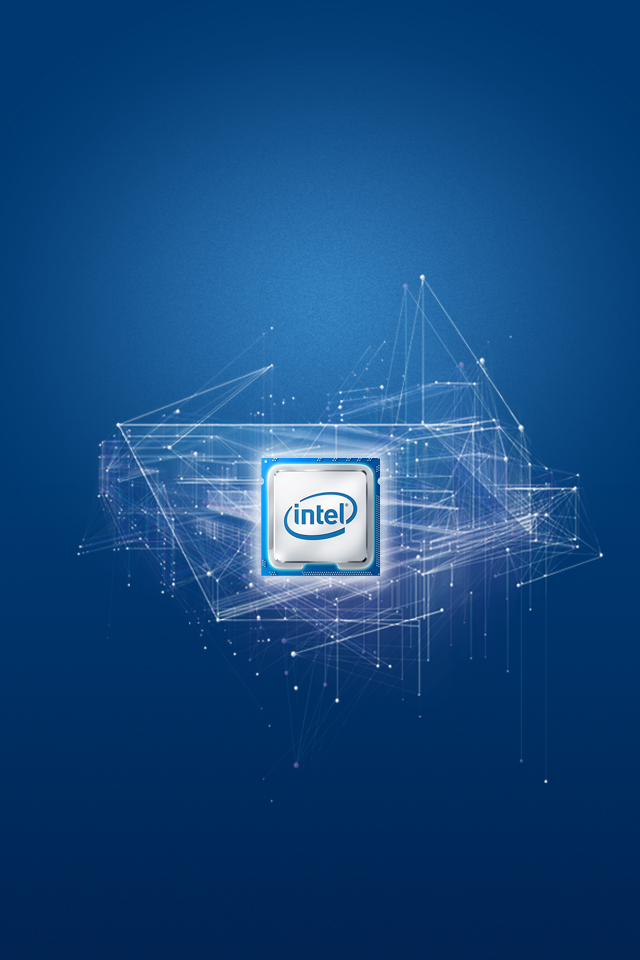
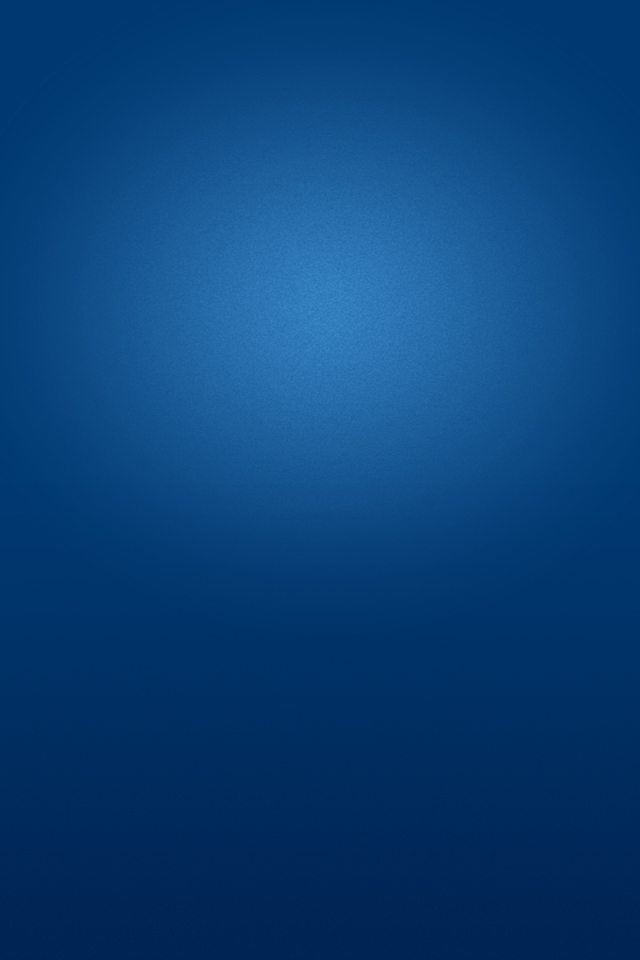
index flash

Changed region(s): [[0.1562, 0.2812, 0.9062, 0.7188], [0.375, 0.375, 0.4375, 0.4062]]

diff --git a/style/howe.css b/style/howe.css
@@ -2,6 +2,26 @@
 	background: url(../img/index_bg.jpg) no-repeat center 0;
 	background-size: cover;
 }
+.index_page .intel_core{
+	position: absolute;
+	top: 0;
+	left: 0;
+	width: 100%;
+}
+.index_page .intel_bg{
+	position: absolute;
+	top: 0;
+	left: 0;
+	width: 100%;
+	-webkit-animation-name: flash;
+  	animation-name: flash;
+  	-webkit-animation-iteration-count: infinite;
+  	animation-iteration-count: infinite;
+  	-webkit-animation-duration: 4s;
+	animation-duration: 4s;
+	-webkit-animation-fill-mode: both;
+	animation-fill-mode: both;
+}
 .index_title{
 	position: absolute;
 	top: 20%;

diff --git a/index.html b/index.html
@@ -47,6 +47,8 @@
         </a>
         <div class="main">
             <section class="page1 swipe index_page">
+                <img class="intel_bg" src="./img/home_bg.png" alt="">
+                <img class="intel_core" src="./img/intel_core.png" alt="">
                 <p class="index_title">英特尔<span>®</span>&nbsp;&nbsp;想怎么行  就怎么行</p>
                 <p class="index_title1">未来超能瓶 跨界来袭</p>
 
